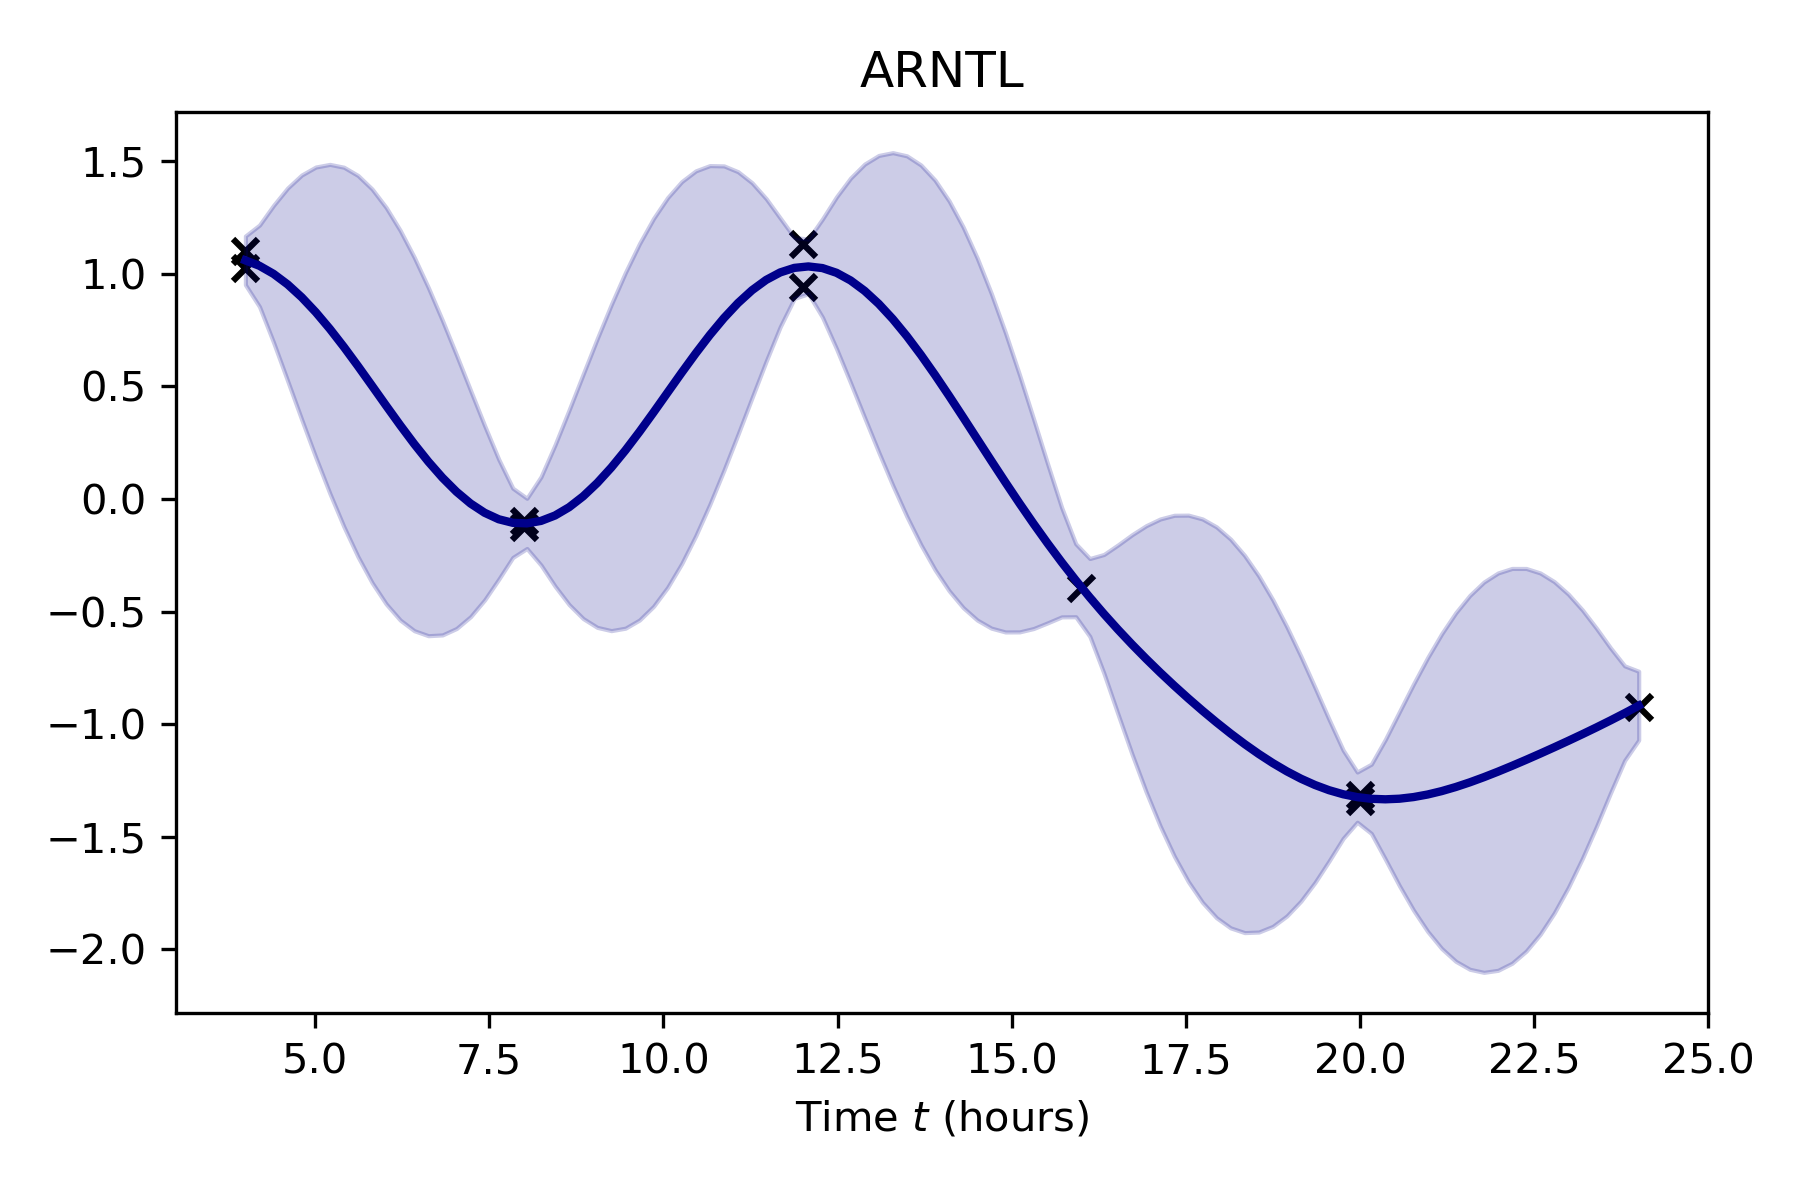
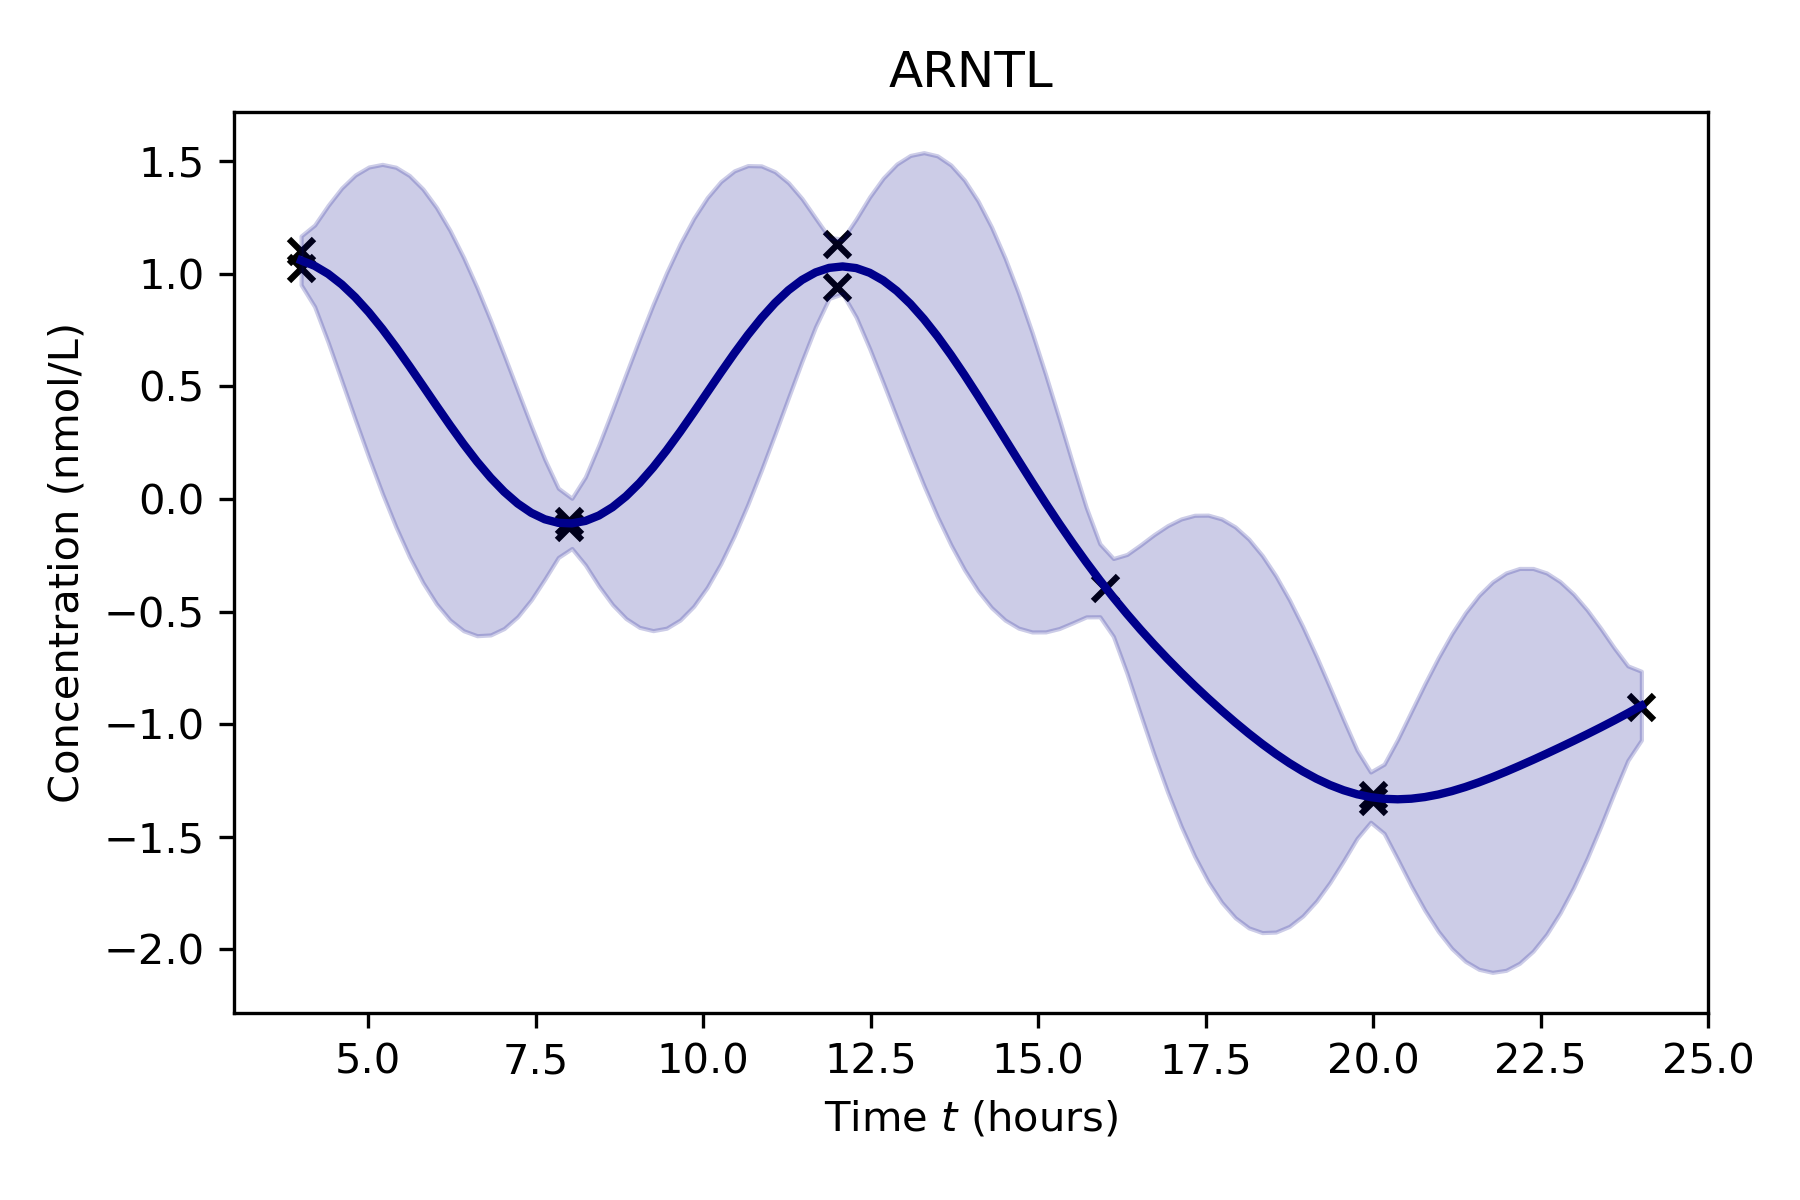
Ajout du subplot

diff --git a/Interpolation_processus_gaussiens.py b/Interpolation_processus_gaussiens.py
@@ -107,10 +107,12 @@ def plot_GP(X_observation, y_observation, mean_per, t, var_per, name_specie):
         fig, axes = plt.subplots(1,1)
         axes.scatter(X_observation, y_observation, marker='x', color='black') # data
         
-        axes.plot(t, mean_per, color='darkblue', linewidth=2)
-        axes.fill_between(t, mean_per - 2*torch.sqrt(var_per), mean_per + 2*torch.sqrt(var_per),
-                           alpha=.2, color='darkblue')
+        axes.plot(t, mean_per.detach().numpy(), color='darkblue', linewidth=2)  # Detach the tensor
+        axes.fill_between(t, (mean_per - 2 * torch.sqrt(var_per)).detach().numpy(), 
+                          (mean_per + 2 * torch.sqrt(var_per)).detach().numpy(),
+                          alpha=.2, color='darkblue')
         axes.set_xlabel('Time $t$ (hours)')
+        axes.set_ylabel('Concentration (nmol/L)')
         axes.set_title(str(name_specie))
         fig.tight_layout()
         fig.savefig("results/"+str(name_specie)+".png", dpi=300)
@@ -127,7 +129,9 @@ X_observation = rna_seq_data["CTs"]*3
 kernel_method = "Range"
 package_method = "Pytorch"
 
-for name in list_species : 
+res_rna_seq = {name : {"X_observation_tensor" :{}, "y_observation_tensor_normalized" :{}, "time" :{}, "mean_specie":{}, "var_specie":{}} for name in list_species}
+
+for i, name in enumerate(list_species) : 
     y_observation = np.concatenate((rna_seq_data["ctrl"][name]["pts"][:,0], rna_seq_data["ctrl"][name]["pts"][:,1], rna_seq_data["ctrl"][name]["pts"][:,2]), axis=0)
 
     # Missing data handling
@@ -148,4 +152,46 @@ for name in list_species :
     
     mean_specie, var_specie, time = interpolation_GP_arn(X_observation_tensor, y_observation_tensor_normalized, type_kernel = kernel_method, type_package = package_method, name_specie = name)
     plot_GP(X_observation_tensor, y_observation_tensor_normalized, mean_specie, time, var_specie, name)
+
+    res_rna_seq[name]["X_observation_tensor"] = X_observation_tensor
+    res_rna_seq[name]["y_observation_tensor_normalized"] = y_observation_tensor_normalized
+    res_rna_seq[name]["time"] = time
+    res_rna_seq[name]["mean_specie"] = mean_specie
+    res_rna_seq[name]["var_specie"] = var_specie
+    
+
+# Calcul du nombre de lignes nécessaire pour afficher tous les graphiques
+num_rows = 2  # Nombre de lignes souhaité
+num_cols = -(-len(list_species) // num_rows)  # Calcul du nombre de colonnes nécessaire
+
+# Ajout du subplot à partir du dictionnaire res_rna_seq
+fig, axes = plt.subplots(num_rows, num_cols, figsize=(15, 5*num_rows))
+
+for i, name in enumerate(list_species):
+    row, col = i // num_cols, i % num_cols  # Calcul de la position du subplot dans la grille
+    X_observation_tensor = res_rna_seq[name]["X_observation_tensor"]
+    y_observation_tensor_normalized = res_rna_seq[name]["y_observation_tensor_normalized"]
+    mean_specie = res_rna_seq[name]["mean_specie"]
+    time = res_rna_seq[name]["time"]
+    var_specie = res_rna_seq[name]["var_specie"]
+
+    axes[row, col].scatter(X_observation_tensor, y_observation_tensor_normalized, marker='x', color='black')  # data
+
+    axes[row, col].plot(time, mean_specie.detach().numpy(), color='darkblue', linewidth=2)  # Detach the tensor
+    axes[row, col].fill_between(time, (mean_specie - 2 * torch.sqrt(var_specie)).detach().numpy(),
+                                (mean_specie + 2 * torch.sqrt(var_specie)).detach().numpy(),
+                                alpha=.2, color='darkblue')
+    axes[row, col].set_xlabel('Time $t$ (hours)')
+    axes[row, col].set_ylabel('Concentration (nmol/L)')
+    axes[row, col].set_title(str(name))
+
+# Supprimer les sous-graphiques inutilisés
+for i in range(len(list_species), num_rows * num_cols):
+    fig.delaxes(axes.flatten()[i])
+
+fig.tight_layout()
+plt.savefig("results/GP_RNA_Seq.png", dpi=300)
+plt.show()
+    
+    
     
